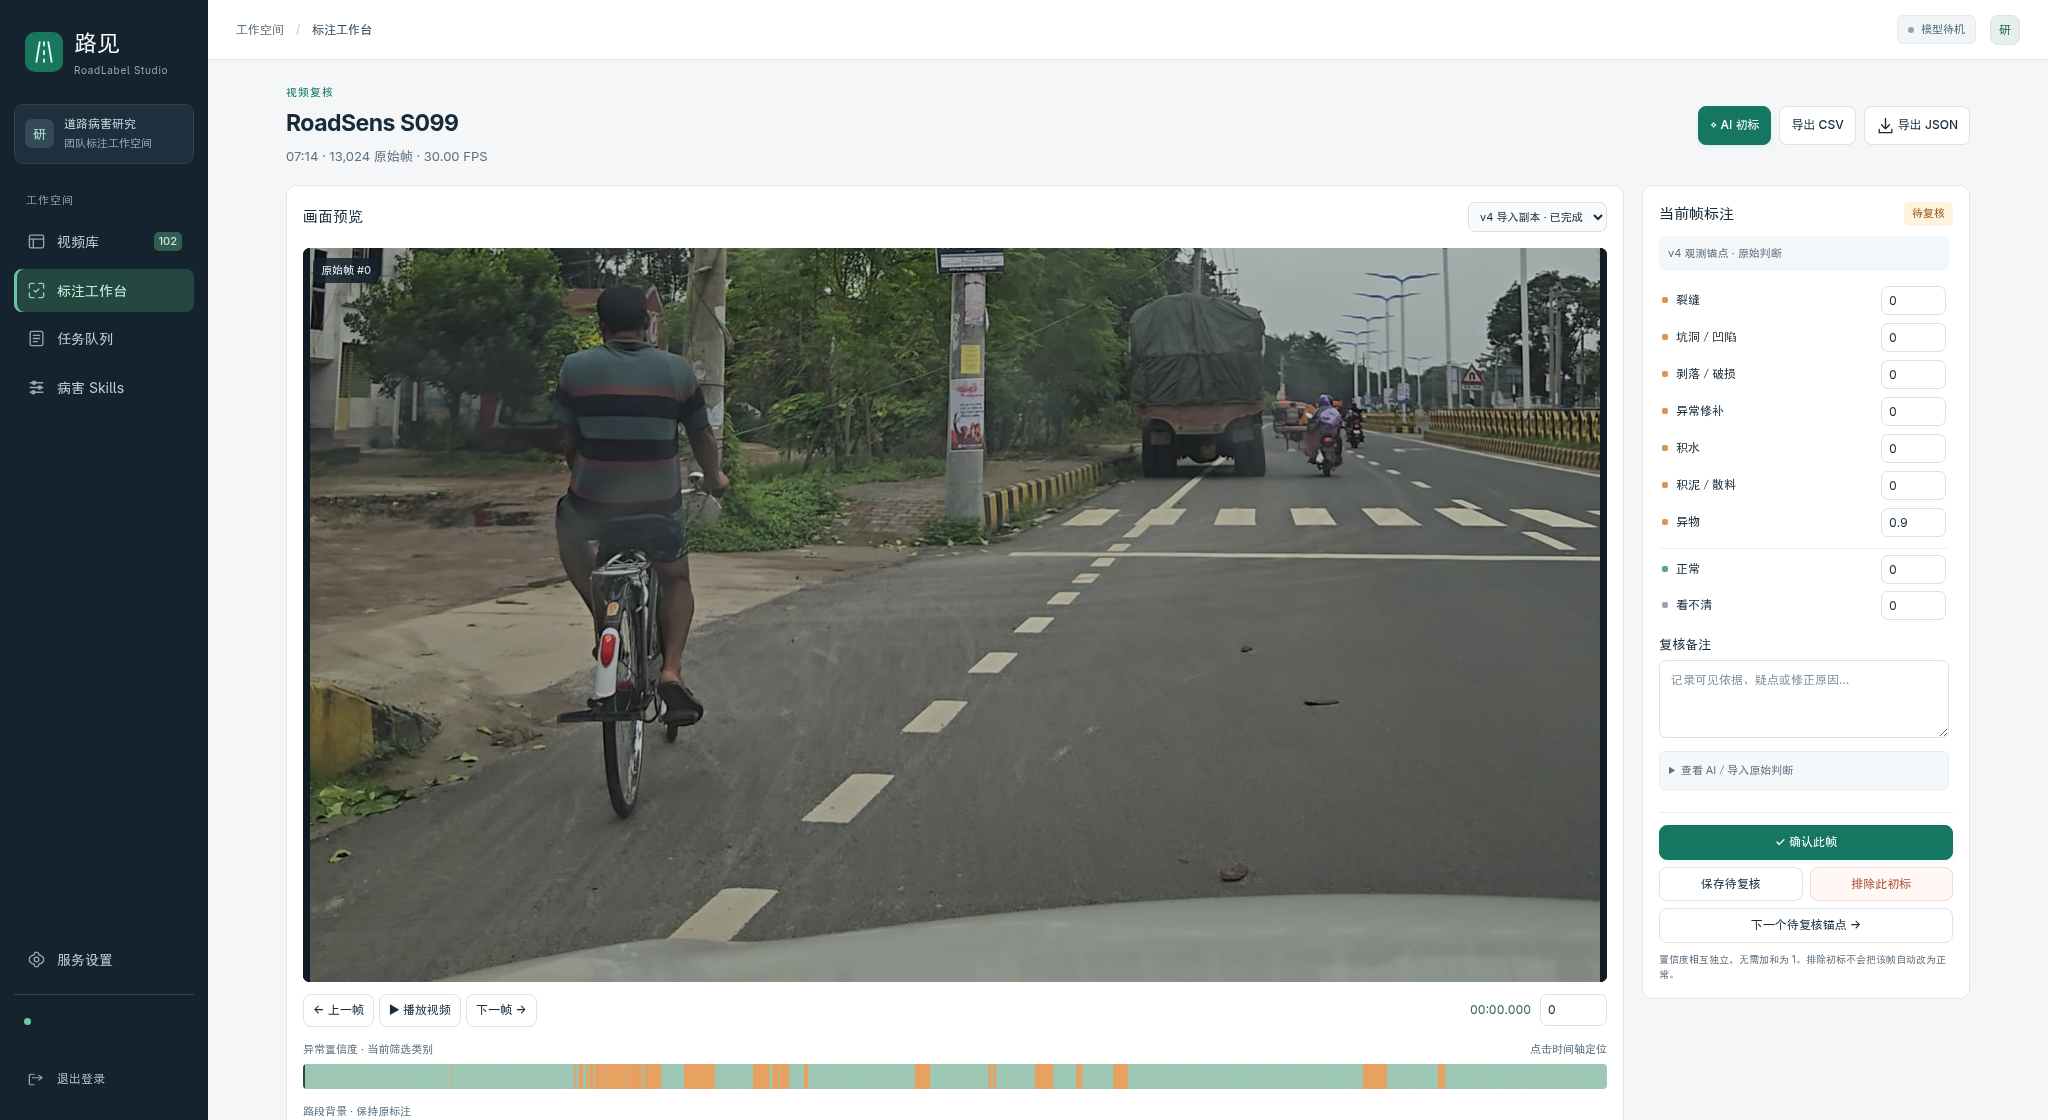
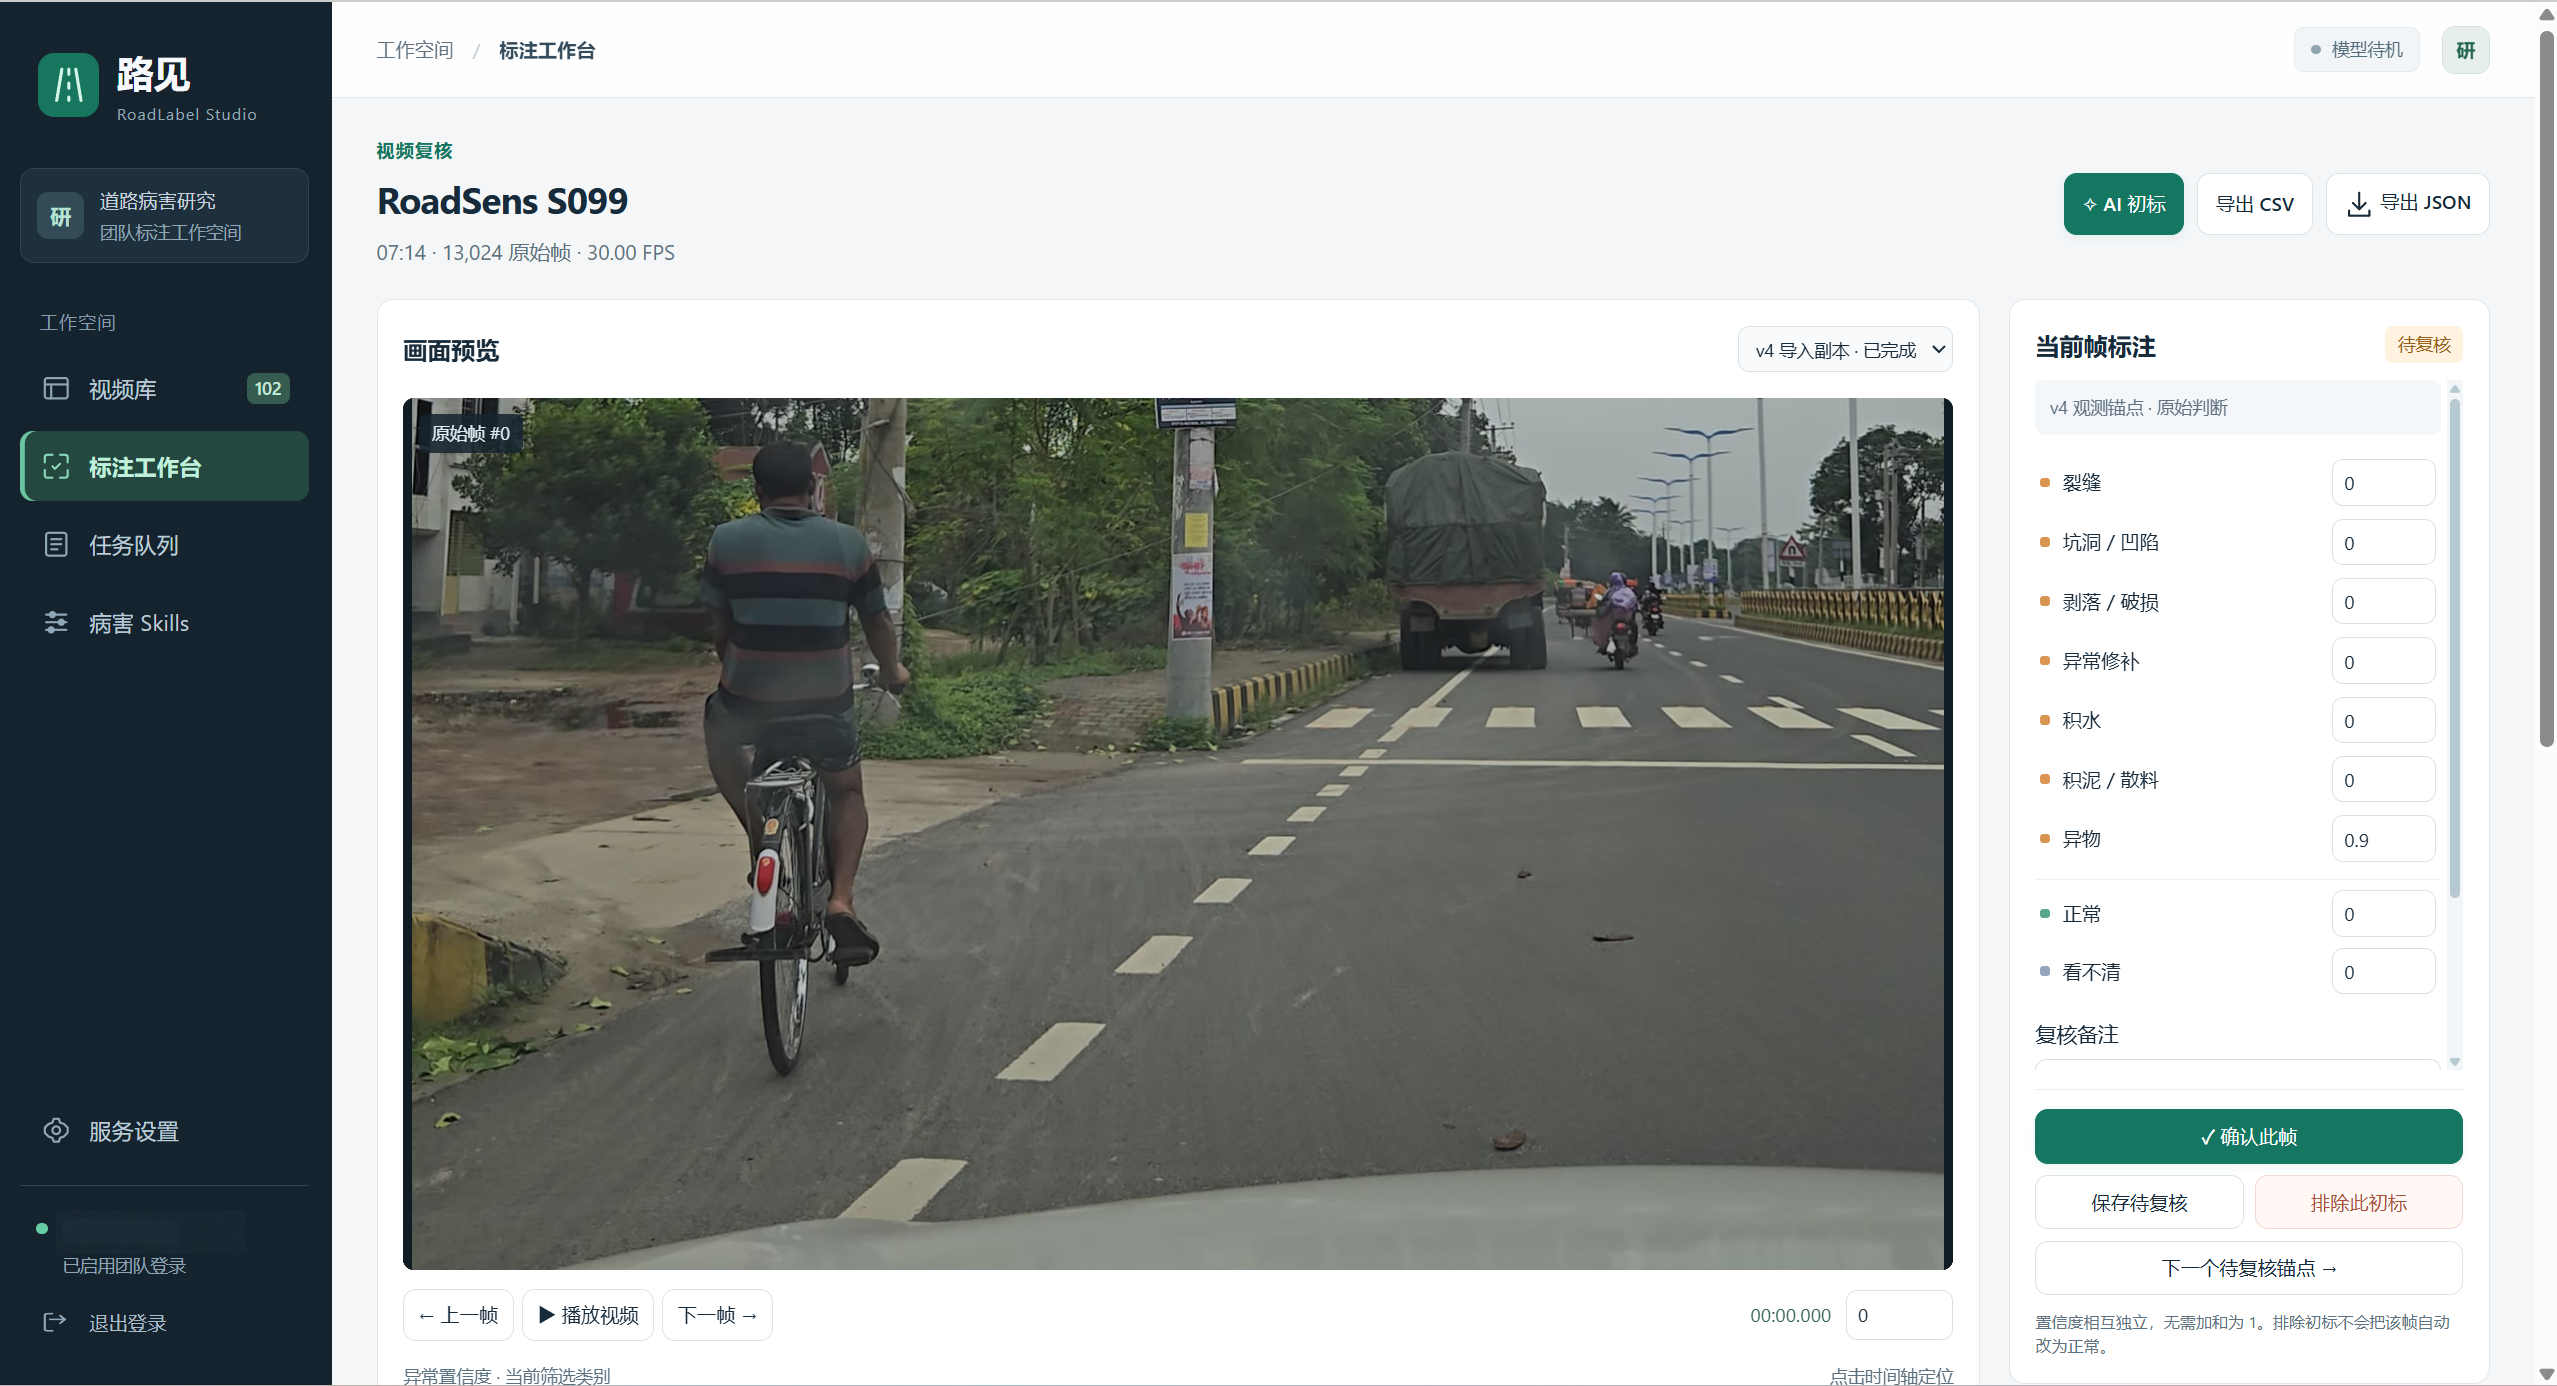
Refresh workbench sample and add candidate filtering screenshot

diff --git a/docs/demo.md b/docs/demo.md
@@ -6,7 +6,7 @@
 
 真实道路裁切图片及早期复核截图位于 `docs/images/real/`，来源与标注流程见 [真实样例说明](real-examples.md)。本演示脚本不会生成或覆盖这些真实样例。
 
-README 的“样例图”位于 `docs/images/screenshots/`，为平台实际页面的脱敏截图，展示视频库、逐帧复核与任务队列；其中道路画面来自 RoadSens-4M，来源见 [署名说明](images/real/ATTRIBUTION.md)。
+README 的“样例图”位于 `docs/images/screenshots/`，为平台实际页面的脱敏截图，展示视频库、逐帧复核、候选片段筛选与任务队列；其中道路画面来自 RoadSens-4M，来源见 [署名说明](images/real/ATTRIBUTION.md)。
 
 运行演示：
 

diff --git a/README.md b/README.md
@@ -36,6 +36,10 @@ RoadLabel Studio 将视频上传、视觉模型初标、人工复核和候选区
 
 ![标注工作台：视频画面、逐帧分类分数与人工复核](docs/images/screenshots/annotation-workbench.png)
 
+**候选片段筛选** · 按类别、置信度阈值与连接间隔预览候选区间。
+
+![候选片段筛选：异常时间轴、筛选参数与候选区间](docs/images/screenshots/candidate-filtering.png)
+
 **任务队列** · 查看分析进度与模型状态，继续未完成的标注任务。
 
 ![任务队列：模型状态、已保存进度与任务管理](docs/images/screenshots/task-queue.png)
